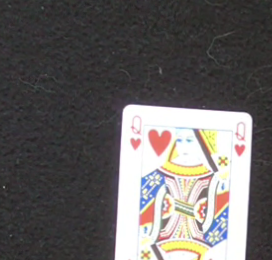
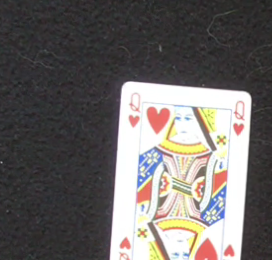
mit

diff --git a/extractimages.py b/extractimages.py
@@ -23,7 +23,7 @@ def getimages(im):
 
     # Det her kort er det nye kort der bliver vendt fra bunken.
     pilecard = im[0:int(width/4), int(height/7) * 1:int((height/7) * 2)]
-    cv2.imwrite('pilecard.png', pilecard)
+    cv2.imshow('bulding_pile1.png', building_pile1)
 
     dict0 = {'name': 'Pilecard', 'img': pilecard}
     dict1 = {'Name': 'pile1', 'img': building_pile1}
@@ -34,5 +34,6 @@ def getimages(im):
     dict6 = {'Name': 'pile6', 'img': building_pile6}
     dict7 = {'Name': 'pile7', 'img': building_pile7}
 
-    imagelist = [pilecard, building_pile1, building_pile2, building_pile3, building_pile4, building_pile5, building_pile6, building_pile7]
+    # Lad være med at ændre på hvor de forskellige ting bliver returneret plox - Gustav
+    imagelist = [building_pile1, building_pile2, building_pile3, building_pile4, building_pile5, building_pile6, building_pile7, pilecard, ]
     return imagelist

diff --git a/CardDetector.py b/CardDetector.py
@@ -96,7 +96,7 @@ while cam_quit == 0:
     subimages = extractimages.getimages(frame)
 
     cards = []
-
+    k = 0
     for subimage in subimages:
         # Find and sort the contours of all cards in the image (query cards)
         pre_proc = Cards.preprocces_image(subimage)
@@ -115,6 +115,10 @@ while cam_quit == 0:
             card.suit_diff = Cards.match_card(card, train_ranks, train_suits)
 
             # Draw center point and match result on the image.
+            # Vi bliver nødt til at shifte vores koordinater. De koordinater der kommer ud af vores cropped billeder
+            # Kan vi ikke bruge på vores rigtige frame, derfor udregner vi hvad deres position burde være på det nye
+            # billede.
+
             frame = Cards.draw_results(frame, card)
 
 
